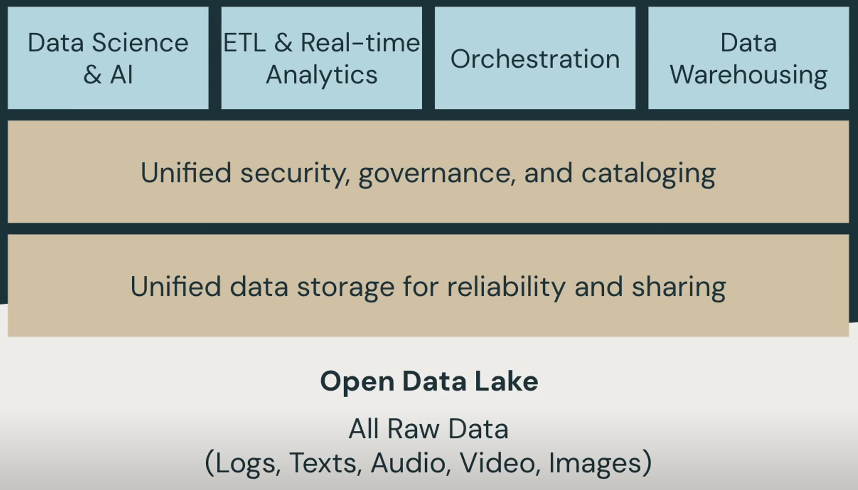
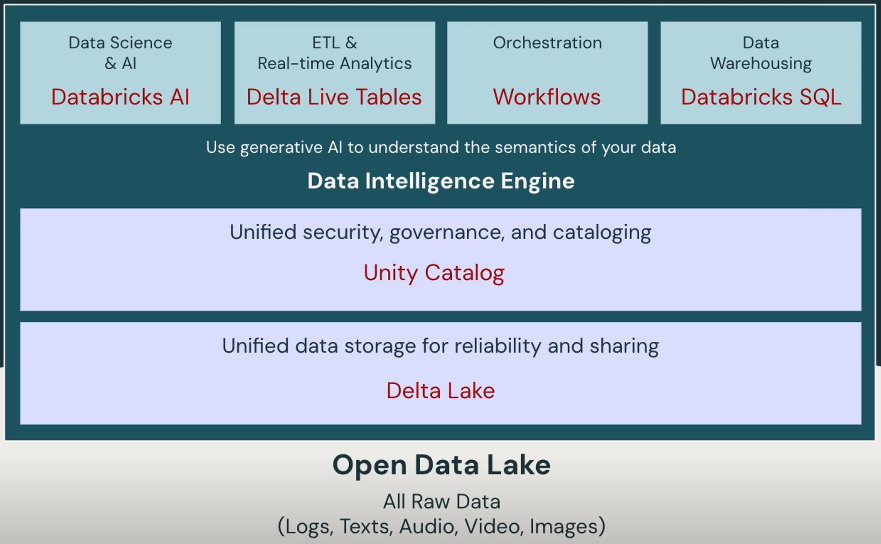
Add images

diff --git a/ADB/01_Databricks_Fundamentals/Untitled Notebook 2024-05-21 10_42_25.py b/ADB/01_Databricks_Fundamentals/Untitled Notebook 2024-05-21 10_42_25.py
@@ -44,7 +44,8 @@
 # MAGIC %md
 # MAGIC ## Data Lakehouse
 # MAGIC - In 2021, advent of Lakehouse architect paradigm
-# MAGIC - An opent unified foundation for all data
+# MAGIC - An open unified foundation for all data
+# MAGIC
 # MAGIC ![Data Lakehouse Overview](./images/Data_Lakehouse_Overview.npg)
 # MAGIC
 # MAGIC - It combines the benefits of Data Lake and analytical power of Data Warehouse
@@ -64,3 +65,16 @@
 # MAGIC - **Support for diverse data types:** structured, semi-structured, unstructured
 # MAGIC - **Support for diverse workloads:** DE, ML, AI workloads
 # MAGIC - **End-to-end streaming**: for real-time reports, remove the need of intermediate systems
+
+# COMMAND ----------
+
+# MAGIC %md
+# MAGIC ## Data Intelligence Platform
+# MAGIC ![Data Intelligence Platform](./images/Data_Intelligence_Platform.npg)
+# MAGIC
+# MAGIC Data Intelligence Platform is built on the foundation of Data Lakehouse
+# MAGIC
+# MAGIC ![Data Lakehouse With Generative AI](./images/Data_Lakehouse_With_Generative_AI.npg)
+# MAGIC - Now the Lakehouse has Generative AI available to support all areas of work
+# MAGIC   - Generative AI understands the sematic of the data and then infuse it throughout the whole platform
+# MAGIC
